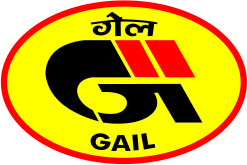
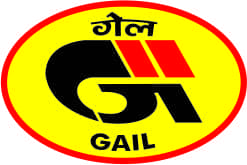
Compresses some images on sponsorship page

diff --git a/sponsors.html b/sponsors.html
@@ -1320,7 +1320,7 @@
                     <div class="popover__wrapper">
                         <figure class='popover__title'>
                             <div class="img-wrapper">
-                                <img class="img-fluid" src="img/sponsors/2020/ifp.png"/>
+                                <img class="img-fluid" src="img/sponsors/2020/ifp.jpg"/>
                             </div>
                             <figcaption><span>Event Partner</span></figcaption>
                         </figure>
